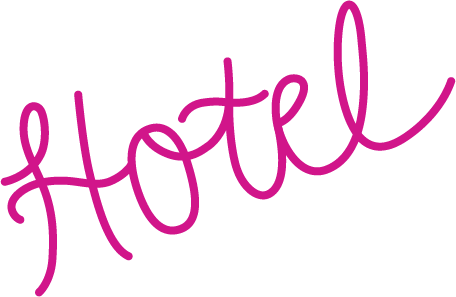
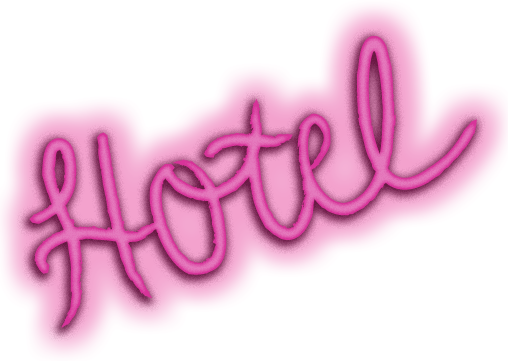
adds neon sign blinking functionality :O

diff --git a/script.js b/script.js
@@ -17,3 +17,50 @@ function bgTracker() {
     bgState += 1;
   } else {bgState = 1;}
 }
+
+//TEMPLATED BLINKING
+function doABlink(blinker) {
+  let lit = 'assets/'+ blinker.id+'.png';
+  let unlit = 'assets/'+ blinker.id+'x.png';
+  darkIt(blinker, unlit);
+  setTimeout(function() {
+    lightIt(blinker, lit)
+  }, 200);
+  setTimeout(function() {
+    darkIt(blinker, unlit);
+  }, 600);
+  setTimeout(function() {
+    lightIt(blinker, lit)
+  }, 700);
+  setTimeout(function() {
+    darkIt(blinker, unlit);
+  }, 800);
+  setTimeout(function() {
+    lightIt(blinker, lit)
+  }, 900);
+}
+
+function lightIt(blinker, lit) {
+  blinker.src = lit;
+}
+
+function darkIt(blinker, unlit) {
+  blinker.src = unlit;
+}
+
+
+//WORKS, BUT NOT TEMPLATEABLE
+function blink(blinker) {
+  let oldSrc = 'assets/'+ blinker.id;
+  let blinked =  oldSrc+'x.png';
+  console.log('blinked fore');
+  blinker.src = blinked;
+  setTimeout(function() {
+    blinkBack(blinker, oldSrc);  // You used `el`, not `element`?
+  }, 500);
+}
+
+function blinkBack(blinker, oldSrc) {
+  blinker.src = oldSrc+'.png';
+  console.log('blinked back');
+}

diff --git a/index.html b/index.html
@@ -10,8 +10,8 @@
   <body id="theBod">
     <div class="page">
       <div class="neonSign">
-        <img src="assets/index1.png" alt="hotel">
-        <img src="assets/index2.png" alt="california">
+        <img src="assets/index1.png" alt="hotel" id='index1' onmouseover="doABlink(this)">
+        <img src="assets/index2.png" alt="california" id='index2' onmouseover="doABlink(this)">
       </div>
       <button onClick=bgTracker()>Clicker</button>
       <a href="site.html">enter</a>

diff --git a/styles.css b/styles.css
@@ -40,6 +40,7 @@ img {
 header {
   background: black;
   width: 100%;
+  padding: .5em;
   border: 1em solid black;
   border-image: url(assets/border.svg) 40 40 round;
   border-image-outset: 1px;
@@ -67,7 +68,8 @@ a {
 }
 
 .neonSign {
-  width: 100%;
+  padding-top: 25vh;
+  width: 90%;
   display: block;
   margin: auto;
   text-align: center;
